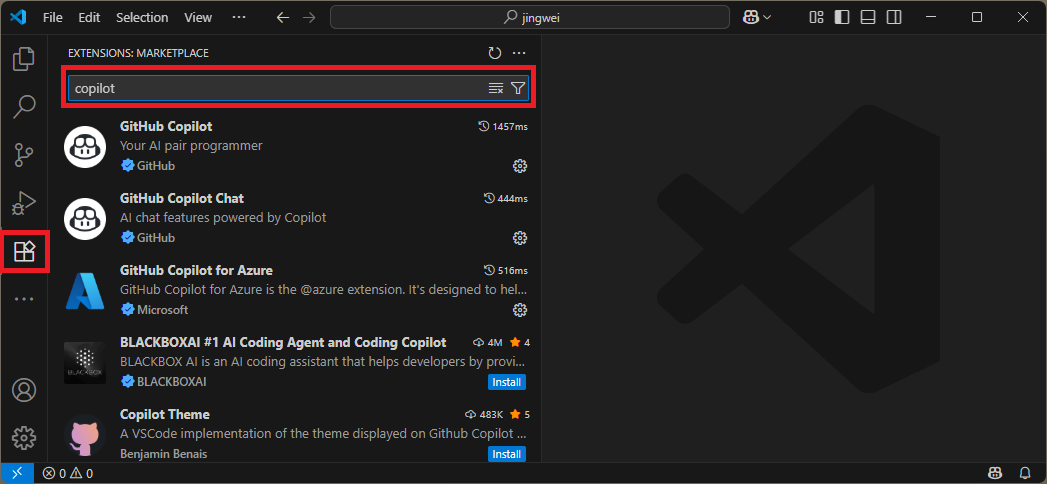
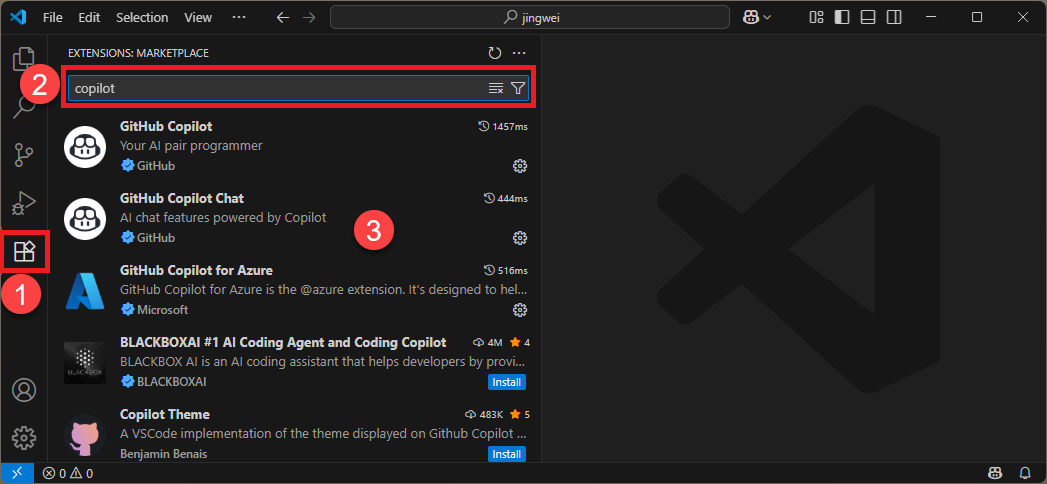
Added steps to image

Changed region(s): [[0.0, 0.124, 0.0611, 0.2169], [0.3362, 0.4339, 0.3973, 0.5269], [0.0, 0.5579, 0.0611, 0.6508]]

diff --git a/articles/terraform/terraform-handler-for-azure-copilot/generate-terraform-configuration-using-copilot.md b/articles/terraform/terraform-handler-for-azure-copilot/generate-terraform-configuration-using-copilot.md
@@ -47,7 +47,7 @@ In this article, You learn how to use Azure Copilot from the Azure portal and Vi
 
 1. Open VS Code.
 
-1. From the Nav Bar, select **Extensions**.
+1. From the Nav Bar, select **Extensions**, and search for `copilot` extensions.
 
     :::image type="content" source="./media/generate-terraform-configuration-using-copilot/vs-code-extensions.png" alt-text="Sceenshot of VS Code Extensions icon in the Nav Bar.":::
 
